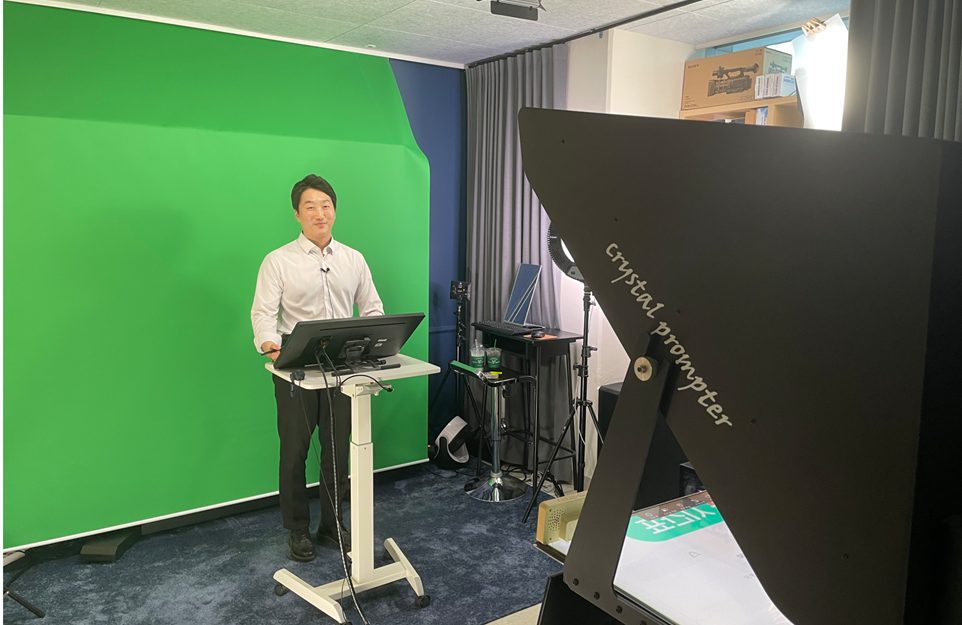
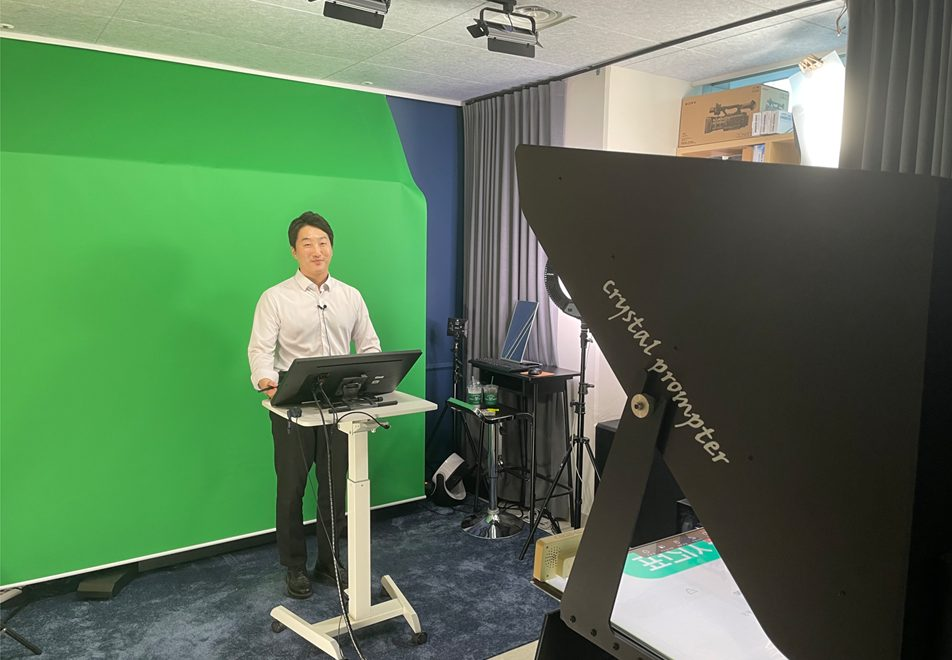
Add files via upload

Changed region(s): [[0.0, 0.0, 1.0, 1.0], [0.792, 0.9424, 0.8225, 1.0], [0.7616, 0.8816, 0.792, 0.912]]

diff --git a/introduce.html b/introduce.html
@@ -1,1 +1,1 @@
-<!DOCTYPE html><html lang="ko"><head><meta charset="utf-8"><meta name="viewport" content="width=device-width,initial-scale=1"><title>스튜디오소개 | 탑플렉스스튜디오</title><meta name="description" content="탑플렉스스튜디오 공간·장비 소개. 수원 광교 전자칠판·크로마키·호리존·인터뷰 스튜디오와 방송급 조명·음향·카메라 장비로 동영상 강의·기업영상·라이브 방송을 제작합니다."><link rel="canonical" href="https://topflexstudio.com/introduce.html"><meta property="og:title" content="스튜디오소개 | 탑플렉스스튜디오"><meta property="og:description" content="탑플렉스스튜디오 공간·장비 소개. 수원 광교 전자칠판·크로마키·호리존·인터뷰 스튜디오와 방송급 조명·음향·카메라 장비로 동영상 강의·기업영상·라이브 방송을 제작합니다."><meta property="og:type" content="website"><meta property="og:site_name" content="탑플렉스스튜디오"><meta property="og:locale" content="ko_KR"><meta property="og:url" content="https://topflexstudio.com/introduce.html"><meta property="og:image" content="https://topflexstudio.com/assets/img/og-image.jpg?v=13"><meta property="og:image:width" content="1200"><meta property="og:image:height" content="630"><meta property="og:image:alt" content="탑플렉스 스튜디오 로고"><meta name="twitter:card" content="summary_large_image"><meta name="twitter:image" content="https://topflexstudio.com/assets/img/og-image.jpg?v=13"><script type="application/ld+json">{"@context":"https://schema.org","@type":"LocalBusiness","name":"탑플렉스스튜디오","alternateName":"TOPFLEX STUDIO","description":"수원 광교 강의 촬영·스튜디오 대여 전문. 전자칠판·크로마키·호리존·인터뷰 스튜디오, 라이브커머스, 라이브 스트리밍, 동영상 강의 제작.","url":"https://topflexstudio.com/","telephone":"+82-10-2045-8209","email":"topflex00@naver.com","address":{"@type":"PostalAddress","streetAddress":"영통구 법조로 25 SK뷰레이크 A동 1716호·3516호","addressLocality":"수원시","addressRegion":"경기도","addressCountry":"KR"},"areaServed":["수원","광교","경기도","용인","성남"],"priceRange":"₩₩","sameAs":["https://www.youtube.com/channel/UCxJ5r7ACqm0tjd18kC4_7fA"],"hasOfferCatalog":{"@type":"OfferCatalog","name":"스튜디오 서비스","itemListElement":[{"@type":"Offer","itemOffered":{"@type":"Service","name":"전자칠판 강의 촬영"}},{"@type":"Offer","itemOffered":{"@type":"Service","name":"크로마키 합성 촬영"}},{"@type":"Offer","itemOffered":{"@type":"Service","name":"호리존 스튜디오 촬영"}},{"@type":"Offer","itemOffered":{"@type":"Service","name":"인터뷰 촬영"}},{"@type":"Offer","itemOffered":{"@type":"Service","name":"라이브커머스 방송"}},{"@type":"Offer","itemOffered":{"@type":"Service","name":"라이브 스트리밍"}},{"@type":"Offer","itemOffered":{"@type":"Service","name":"홈페이지 구축"}}]}}</script><link rel="stylesheet" href="assets/styles-dark.css?v=23"></head><body><header class="hdr"><div class="hdr-top2"><a href="index.html" class="hlogo" aria-label="탑플렉스 스튜디오 홈"><img src="assets/img/logo3d.png?v=6" alt="탑플렉스 스튜디오"><span class="lg lg1"></span><span class="lg lg2"></span><span class="sweep"></span></a><a href="contact.html" class="btn-sm">스튜디오 문의</a></div><nav class="nav"><div class="nav-in"><a href="index.html">홈</a><a href="introduce.html" class="on">스튜디오 소개</a><div class="ndrop"><button type="button" class="ndbtn" aria-expanded="false">스튜디오 <svg class="nda" width="12" height="12" viewBox="0 0 24 24" fill="none" stroke="currentColor" stroke-width="2.6" stroke-linecap="round" stroke-linejoin="round"><path d="M6 9l6 6 6-6"/></svg></button><div class="ndmenu"><a href="studio-board.html">전자칠판 스튜디오</a><a href="studio-chromakey.html">크로마키 스튜디오</a><a href="studio-horizon.html">호리존 스튜디오</a><a href="interview.html">인터뷰 스튜디오</a></div></div><div class="ndrop"><button type="button" class="ndbtn" aria-expanded="false">라이브 <svg class="nda" width="12" height="12" viewBox="0 0 24 24" fill="none" stroke="currentColor" stroke-width="2.6" stroke-linecap="round" stroke-linejoin="round"><path d="M6 9l6 6 6-6"/></svg></button><div class="ndmenu"><a href="studio-live.html">라이브 커머스</a><a href="livestream.html">라이브 스트리밍</a></div></div><a href="portfolio.html">포트폴리오</a><a href="reviews.html">고객후기</a><a href="website.html">홈페이지 구축</a><a href="pricing.html">비용 안내</a></div></nav></header><section class="hero"><div class="wrap"><div class="hero-grid"><div><span class="badge"><i></i>STUDIO INTRODUCTION</span><h1>TOPFLEX<br><span class="gt">STUDIO</span><br>TOUR</h1></div><div class="hero-photo"><span class="photo-pill">MAIN STUDIO</span><img src="assets/img/photos/why-1.jpg" alt="메인 스튜디오"></div></div></div></section><section class="spaces"><div class="wrap"><span class="eyb">STUDIO SPACES</span><div class="sech">스튜디오 공간 안내</div><div class="carousel" id="car"><button class="car-btn prev" onclick="cs(-1)">‹</button><div class="slide on"><span class="lab">● LOUNGE</span><img src="assets/img/photos/lounge.jpg" alt=""><div class="cap">대기 라운지</div></div><div class="slide"><span class="lab">● MAIN STUDIO</span><img src="assets/img/photos/live-1.jpg" alt=""><div class="cap">메인 스튜디오</div></div><div class="slide"><span class="lab">● CHROMA KEY</span><img src="assets/img/photos/ck-g1.jpg" alt=""><div class="cap">크로마키 스튜디오</div></div><div class="slide"><span class="lab">● HORIZON</span><img src="assets/img/photos/horizon-hero.jpg" alt=""><div class="cap">호리존 스튜디오</div></div><div class="slide"><span class="lab">● E-BOARD</span><img src="assets/img/photos/board-1.jpg" alt=""><div class="cap">전자칠판 스튜디오</div></div><button class="car-btn next" onclick="cs(1)">›</button></div><div class="dots" id="dots"><span class="dot on" data-i="0"></span><span class="dot" data-i="1"></span><span class="dot" data-i="2"></span><span class="dot" data-i="3"></span><span class="dot" data-i="4"></span></div></div></section><section class="videosec"><div class="wrap"><span class="eyb">VIDEO</span><div class="sech">스튜디오 소개 영상</div><div class="vgrid two"><div class="vf"><iframe src="https://www.youtube.com/embed/fO9VVmrM3aY" title="스튜디오 소개 영상" allow="accelerometer; autoplay; clipboard-write; encrypted-media; gyroscope; picture-in-picture" allowfullscreen></iframe></div><div class="vf"><iframe src="https://www.youtube.com/embed/RDU60sxNx_o" title="스튜디오 소개 영상" allow="accelerometer; autoplay; clipboard-write; encrypted-media; gyroscope; picture-in-picture" allowfullscreen></iframe></div></div></div></section><section class="equip"><div class="wrap"><span class="eyb">STUDIO EQUIPMENT</span><div class="sech">장비 기본셋팅 및 보유 장비</div><div class="gline"></div><div class="chart-card"><img src="assets/img/photos/equipment-chart.jpg" alt="보유 장비"><div class="chart-foot"><span class="b2"><i></i>15종 전문 장비 보유</span><span class="wm">TOPFLEX STUDIO</span></div></div></div></section><section class="seo"><div class="wrap"><h3>탑플렉스스튜디오 공간·장비 소개</h3><p>탑플렉스스튜디오는 수원 광교 SK뷰레이크에 위치하며 전자칠판·크로마키·호리존·인터뷰 등 목적별 촬영 공간과 방송급 조명·음향·카메라 장비를 갖추고 있습니다. 동영상 강의 촬영, 온라인 클래스 제작, 기업 홍보영상, 라이브 방송 등 다양한 콘텐츠 제작에 최적화되어 있습니다.</p><p>촬영 목적에 맞는 스튜디오 추천부터 세트 준비, 촬영, 편집까지 전 과정을 지원합니다. 스튜디오 투어 및 대여 문의는 010-2045-8209 또는 카카오톡으로 상담 가능합니다.</p></div></section><footer><div class="wrap"><div class="fbrand">탑플렉스스튜디오</div>주식회사 탑플렉스<span class="sep">|</span>대표 현형진<span class="sep">|</span>경기도 수원시 영통구 법조로 25 SK뷰레이크 A동 1716호·3516호<br>사업자 등록번호 : 112-86-02208<span class="sep">|</span>전화 : 010-2045-8209<span class="sep">|</span>이메일 : topflex00@naver.com</div></footer><script>var ci=0,sl=document.querySelectorAll("#car .slide"),dt=document.querySelectorAll("#dots .dot");function sh(n){if(!sl.length)return;ci=(n+sl.length)%sl.length;sl.forEach(function(s,i){s.classList.toggle("on",i==ci);});dt.forEach(function(d,i){d.classList.toggle("on",i==ci);});}function cs(d){sh(ci+d);}dt.forEach(function(d){d.addEventListener("click",function(){sh(+d.dataset.i);});});</script><div class="fab-stack"><a href="http://map.naver.com/p/entry/place/1966015866?placePath=%252Fhome%253Fentry%253Dplt&searchType=place&lng=127.0601053&lat=37.2875433" target="_blank" rel="noopener" class="fab-btn fab-naver" aria-label="네이버 예약"><span class="fab-ic fab-ic-naver">N</span><span class="fab-label">예약</span></a><a href="https://open.kakao.com/o/sRELD1pd" target="_blank" rel="noopener" class="fab-btn fab-kakao" aria-label="카카오톡 문의"><img src="assets/img/kakao3d.png?v=11" alt=""><span class="fab-label">문의</span></a></div><script>(function(){var ds=document.querySelectorAll(".ndrop");function closeAll(ex){ds.forEach(function(d){if(d!==ex){d.classList.remove("open");d.querySelector(".ndbtn").setAttribute("aria-expanded","false")}})}ds.forEach(function(d){var b=d.querySelector(".ndbtn");b.addEventListener("click",function(e){e.stopPropagation();var o=d.classList.toggle("open");b.setAttribute("aria-expanded",o?"true":"false");closeAll(d)})});document.addEventListener("click",function(){closeAll(null)})})();</script></body></html>
+<!DOCTYPE html><html lang="ko"><head><meta charset="utf-8"><meta name="viewport" content="width=device-width,initial-scale=1"><title>스튜디오소개 | 탑플렉스스튜디오</title><meta name="description" content="탑플렉스스튜디오 공간·장비 소개. 수원 광교 전자칠판·크로마키·호리존·인터뷰 스튜디오와 방송급 조명·음향·카메라 장비로 동영상 강의·기업영상·라이브 방송을 제작합니다."><link rel="canonical" href="https://topflexstudio.com/introduce.html"><meta property="og:title" content="스튜디오소개 | 탑플렉스스튜디오"><meta property="og:description" content="탑플렉스스튜디오 공간·장비 소개. 수원 광교 전자칠판·크로마키·호리존·인터뷰 스튜디오와 방송급 조명·음향·카메라 장비로 동영상 강의·기업영상·라이브 방송을 제작합니다."><meta property="og:type" content="website"><meta property="og:site_name" content="탑플렉스스튜디오"><meta property="og:locale" content="ko_KR"><meta property="og:url" content="https://topflexstudio.com/introduce.html"><meta property="og:image" content="https://topflexstudio.com/assets/img/og-image.jpg?v=13"><meta property="og:image:width" content="1200"><meta property="og:image:height" content="630"><meta property="og:image:alt" content="탑플렉스 스튜디오 로고"><meta name="twitter:card" content="summary_large_image"><meta name="twitter:image" content="https://topflexstudio.com/assets/img/og-image.jpg?v=13"><script type="application/ld+json">{"@context":"https://schema.org","@type":"LocalBusiness","name":"탑플렉스스튜디오","alternateName":"TOPFLEX STUDIO","description":"수원 광교 강의 촬영·스튜디오 대여 전문. 전자칠판·크로마키·호리존·인터뷰 스튜디오, 라이브커머스, 라이브 스트리밍, 동영상 강의 제작.","url":"https://topflexstudio.com/","telephone":"+82-10-2045-8209","email":"topflex00@naver.com","address":{"@type":"PostalAddress","streetAddress":"영통구 법조로 25 SK뷰레이크 A동 1716호·3516호","addressLocality":"수원시","addressRegion":"경기도","addressCountry":"KR"},"areaServed":["수원","광교","경기도","용인","성남"],"priceRange":"₩₩","sameAs":["https://www.youtube.com/channel/UCxJ5r7ACqm0tjd18kC4_7fA"],"hasOfferCatalog":{"@type":"OfferCatalog","name":"스튜디오 서비스","itemListElement":[{"@type":"Offer","itemOffered":{"@type":"Service","name":"전자칠판 강의 촬영"}},{"@type":"Offer","itemOffered":{"@type":"Service","name":"크로마키 합성 촬영"}},{"@type":"Offer","itemOffered":{"@type":"Service","name":"호리존 스튜디오 촬영"}},{"@type":"Offer","itemOffered":{"@type":"Service","name":"인터뷰 촬영"}},{"@type":"Offer","itemOffered":{"@type":"Service","name":"라이브커머스 방송"}},{"@type":"Offer","itemOffered":{"@type":"Service","name":"라이브 스트리밍"}},{"@type":"Offer","itemOffered":{"@type":"Service","name":"홈페이지 구축"}}]}}</script><link rel="stylesheet" href="assets/styles-dark.css?v=25"></head><body><header class="hdr"><div class="hdr-top2"><a href="index.html" class="hlogo" aria-label="탑플렉스 스튜디오 홈"><img src="assets/img/logo3d.png?v=6" alt="탑플렉스 스튜디오"><span class="lg lg1"></span><span class="lg lg2"></span><span class="sweep"></span></a><a href="contact.html" class="btn-sm">스튜디오 문의</a></div><nav class="nav"><div class="nav-in"><a href="index.html">홈</a><a href="introduce.html" class="on">스튜디오 소개</a><div class="ndrop"><button type="button" class="ndbtn" aria-expanded="false">스튜디오 <svg class="nda" width="12" height="12" viewBox="0 0 24 24" fill="none" stroke="currentColor" stroke-width="2.6" stroke-linecap="round" stroke-linejoin="round"><path d="M6 9l6 6 6-6"/></svg></button><div class="ndmenu"><a href="studio-board.html">전자칠판 스튜디오</a><a href="studio-chromakey.html">크로마키 스튜디오</a><a href="studio-horizon.html">호리존 스튜디오</a><a href="interview.html">인터뷰 스튜디오</a></div></div><div class="ndrop"><button type="button" class="ndbtn" aria-expanded="false">라이브 <svg class="nda" width="12" height="12" viewBox="0 0 24 24" fill="none" stroke="currentColor" stroke-width="2.6" stroke-linecap="round" stroke-linejoin="round"><path d="M6 9l6 6 6-6"/></svg></button><div class="ndmenu"><a href="studio-live.html">라이브 커머스</a><a href="livestream.html">라이브 스트리밍</a></div></div><a href="portfolio.html">포트폴리오</a><a href="reviews.html">고객후기</a><a href="website.html">홈페이지 구축</a><a href="pricing.html">비용 안내</a></div></nav></header><section class="hero"><div class="wrap"><div class="hero-grid"><div><span class="badge"><i></i>STUDIO INTRODUCTION</span><h1>TOPFLEX<br><span class="gt">STUDIO</span><br>TOUR</h1></div><div class="hero-photo"><span class="photo-pill">MAIN STUDIO</span><img src="assets/img/photos/why-1.jpg" alt="메인 스튜디오"></div></div></div></section><section class="spaces"><div class="wrap"><span class="eyb">STUDIO SPACES</span><div class="sech">스튜디오 공간 안내</div><div class="carousel" id="car"><button class="car-btn prev" onclick="cs(-1)">‹</button><div class="slide on"><span class="lab">● LOUNGE</span><img src="assets/img/photos/lounge.jpg" alt=""><div class="cap">대기 라운지</div></div><div class="slide"><span class="lab">● MAIN STUDIO</span><img src="assets/img/photos/live-1.jpg" alt=""><div class="cap">메인 스튜디오</div></div><div class="slide"><span class="lab">● CHROMA KEY</span><img src="assets/img/photos/ck-g1.jpg" alt=""><div class="cap">크로마키 스튜디오</div></div><div class="slide"><span class="lab">● HORIZON</span><img src="assets/img/photos/horizon-hero.jpg" alt=""><div class="cap">호리존 스튜디오</div></div><div class="slide"><span class="lab">● E-BOARD</span><img src="assets/img/photos/board-1.jpg" alt=""><div class="cap">전자칠판 스튜디오</div></div><div class="slide"><span class="lab">● INTERVIEW</span><img src="assets/img/photos/interview-shot-new.jpg?v=25" alt="인터뷰 스튜디오"><div class="cap">인터뷰 스튜디오</div></div><div class="slide"><span class="lab">● E-BOARD ROOM</span><img src="assets/img/photos/board-studio-space.jpg?v=25" alt="전자칠판 스튜디오 공간"><div class="cap">전자칠판 스튜디오 공간</div></div><div class="slide"><span class="lab">● CHROMA LIVE</span><img src="assets/img/photos/live-chromakey-2.jpg?v=25" alt="크로마키 촬영 현장"><div class="cap">크로마키 촬영 현장</div></div><div class="slide"><span class="lab">● EDIT ROOM</span><img src="assets/img/photos/edit-room.jpg?v=25" alt="편집실"><div class="cap">편집실</div></div><button class="car-btn next" onclick="cs(1)">›</button></div><div class="dots" id="dots"><span class="dot on" data-i="0"></span><span class="dot" data-i="1"></span><span class="dot" data-i="2"></span><span class="dot" data-i="3"></span><span class="dot" data-i="4"></span><span class="dot" data-i="5"></span><span class="dot" data-i="6"></span><span class="dot" data-i="7"></span><span class="dot" data-i="8"></span></div></div></section><section class="videosec"><div class="wrap"><span class="eyb">VIDEO</span><div class="sech">스튜디오 소개 영상</div><div class="vgrid two"><div class="vf"><iframe src="https://www.youtube.com/embed/fO9VVmrM3aY" title="스튜디오 소개 영상" allow="accelerometer; autoplay; clipboard-write; encrypted-media; gyroscope; picture-in-picture" allowfullscreen></iframe></div><div class="vf"><iframe src="https://www.youtube.com/embed/RDU60sxNx_o" title="스튜디오 소개 영상" allow="accelerometer; autoplay; clipboard-write; encrypted-media; gyroscope; picture-in-picture" allowfullscreen></iframe></div></div></div></section><section class="equip"><div class="wrap"><span class="eyb">STUDIO EQUIPMENT</span><div class="sech">장비 기본셋팅 및 보유 장비</div><div class="gline"></div><div class="chart-card"><img src="assets/img/photos/equipment-chart.jpg" alt="보유 장비"><div class="chart-foot"><span class="b2"><i></i>15종 전문 장비 보유</span><span class="wm">TOPFLEX STUDIO</span></div></div></div></section><section class="seo"><div class="wrap"><h3>탑플렉스스튜디오 공간·장비 소개</h3><p>탑플렉스스튜디오는 수원 광교 SK뷰레이크에 위치하며 전자칠판·크로마키·호리존·인터뷰 등 목적별 촬영 공간과 방송급 조명·음향·카메라 장비를 갖추고 있습니다. 동영상 강의 촬영, 온라인 클래스 제작, 기업 홍보영상, 라이브 방송 등 다양한 콘텐츠 제작에 최적화되어 있습니다.</p><p>촬영 목적에 맞는 스튜디오 추천부터 세트 준비, 촬영, 편집까지 전 과정을 지원합니다. 스튜디오 투어 및 대여 문의는 010-2045-8209 또는 카카오톡으로 상담 가능합니다.</p></div></section><footer><div class="wrap"><div class="fbrand">탑플렉스스튜디오</div>주식회사 탑플렉스<span class="sep">|</span>대표 현형진<span class="sep">|</span>경기도 수원시 영통구 법조로 25 SK뷰레이크 A동 1716호·3516호<br>사업자 등록번호 : 112-86-02208<span class="sep">|</span>전화 : 010-2045-8209<span class="sep">|</span>이메일 : topflex00@naver.com</div></footer><script>var ci=0,sl=document.querySelectorAll("#car .slide"),dt=document.querySelectorAll("#dots .dot");function sh(n){if(!sl.length)return;ci=(n+sl.length)%sl.length;sl.forEach(function(s,i){s.classList.toggle("on",i==ci);});dt.forEach(function(d,i){d.classList.toggle("on",i==ci);});}function cs(d){sh(ci+d);}dt.forEach(function(d){d.addEventListener("click",function(){sh(+d.dataset.i);});});</script><div class="fab-stack"><a href="http://map.naver.com/p/entry/place/1966015866?placePath=%252Fhome%253Fentry%253Dplt&searchType=place&lng=127.0601053&lat=37.2875433" target="_blank" rel="noopener" class="fab-btn fab-naver" aria-label="네이버 예약"><span class="fab-ic fab-ic-naver">N</span><span class="fab-label">예약</span></a><a href="https://open.kakao.com/o/sRELD1pd" target="_blank" rel="noopener" class="fab-btn fab-kakao" aria-label="카카오톡 문의"><img src="assets/img/kakao3d.png?v=11" alt=""><span class="fab-label">문의</span></a></div><script>(function(){var ds=document.querySelectorAll(".ndrop");function closeAll(ex){ds.forEach(function(d){if(d!==ex){d.classList.remove("open");d.querySelector(".ndbtn").setAttribute("aria-expanded","false")}})}ds.forEach(function(d){var b=d.querySelector(".ndbtn");b.addEventListener("click",function(e){e.stopPropagation();var o=d.classList.toggle("open");b.setAttribute("aria-expanded",o?"true":"false");closeAll(d)})});document.addEventListener("click",function(){closeAll(null)})})();</script><script>(function(){var car=document.getElementById("car");if(!car||typeof cs!=="function")return;var t=setInterval(function(){cs(1)},4000);function stop(){clearInterval(t)}function go(){stop();t=setInterval(function(){cs(1)},4000)}car.addEventListener("mouseenter",stop);car.addEventListener("mouseleave",go);car.addEventListener("touchstart",function(){stop();setTimeout(go,8000)},{passive:true});})();</script></body></html>
